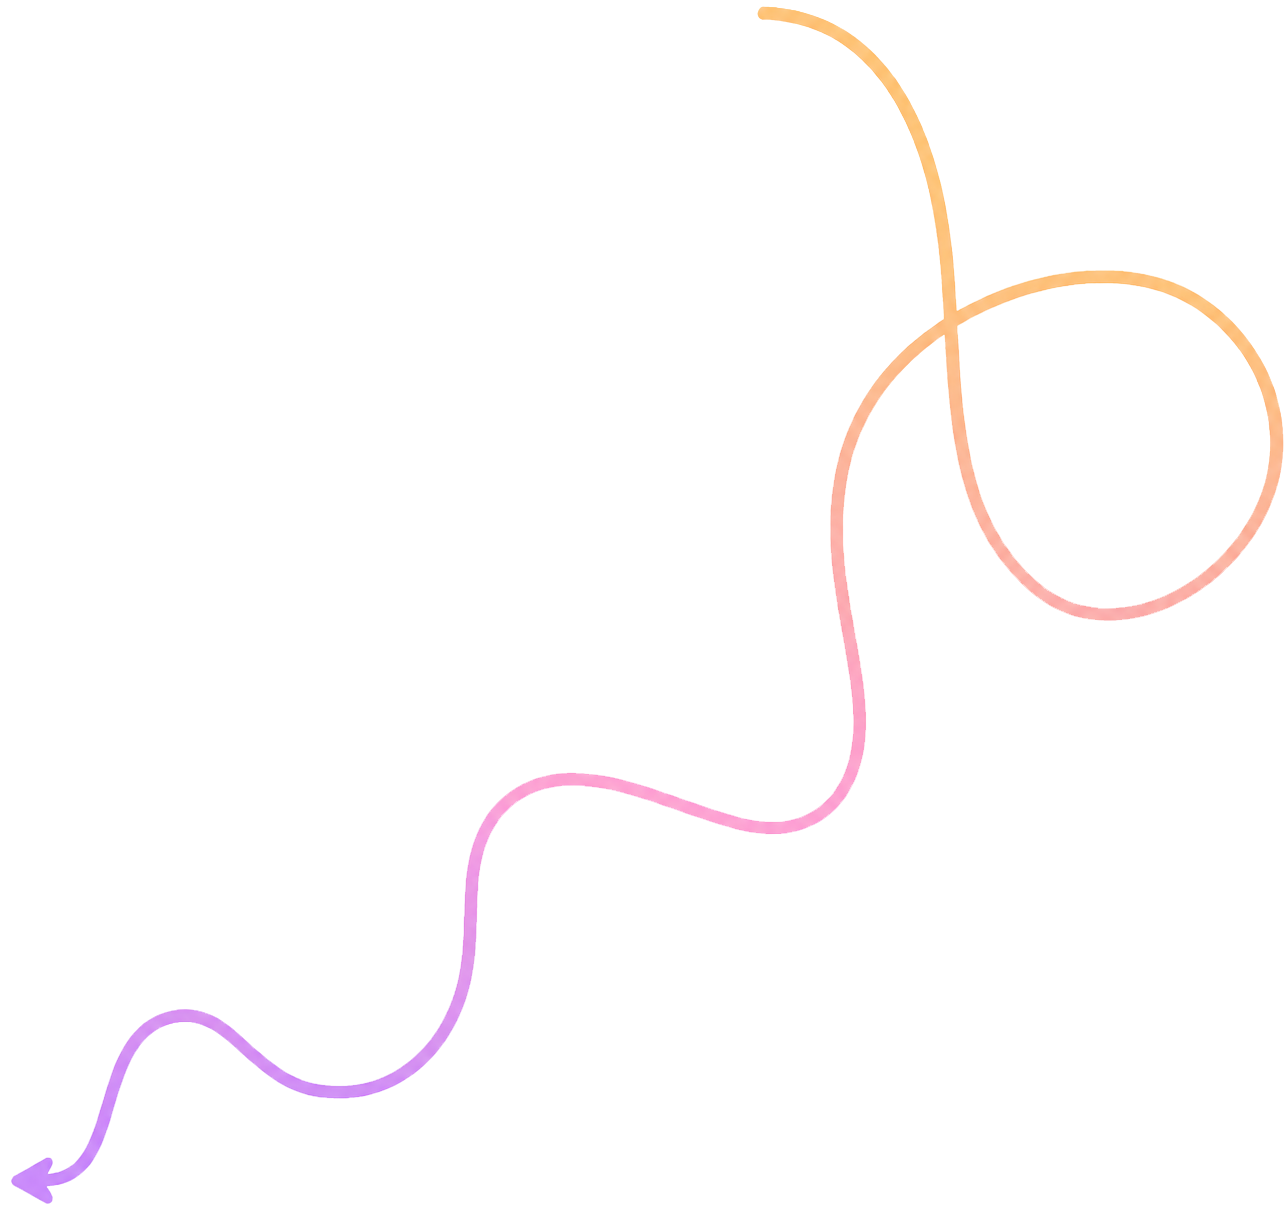
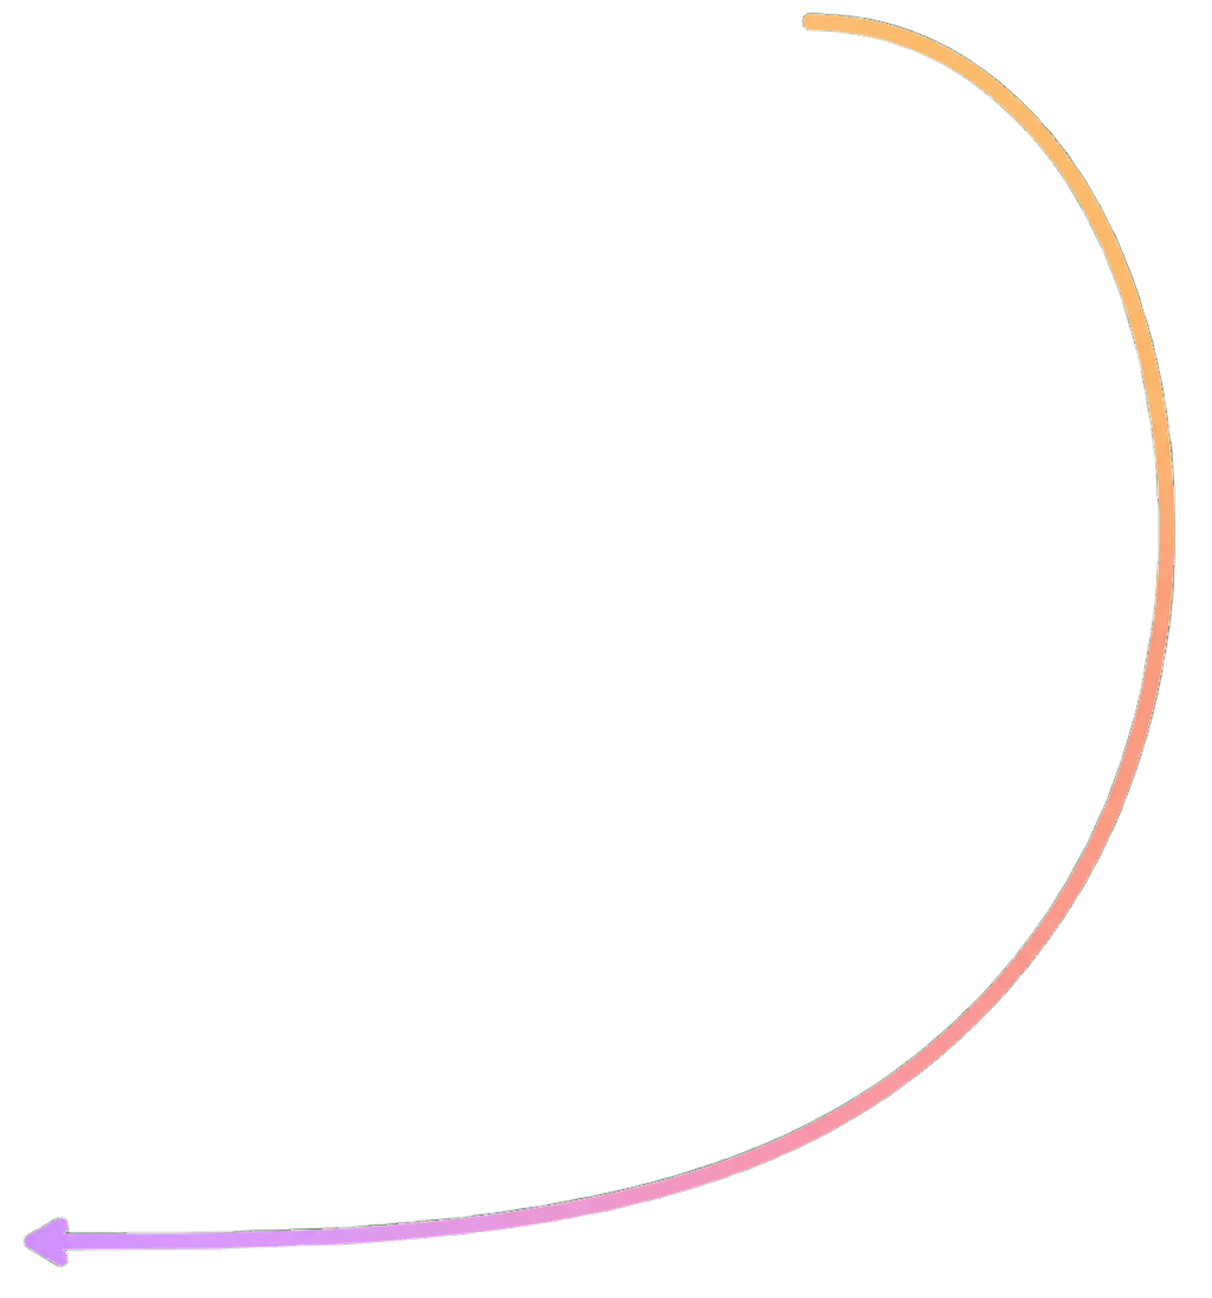
Add files via upload

diff --git a/javascript/experiencias.js b/javascript/experiencias.js
@@ -1,0 +1,60 @@
+let icons = [
+    "IconHTML",
+    "IconCSS",
+    "IconJS",
+    "IconBancoDados",
+    "iconPhp",
+    "iconCotemig",
+    "iconLogicaProgramacao",
+    "iconCSharp",
+    "iconMobile"
+]
+
+
+function randomIndex() {
+    
+    return Math.floor(Math.random() * icons.length);
+
+}
+
+function randomArray(){
+
+    for(let i = 0 ; i < icons.length; i++){
+
+        let index01 = randomIndex();
+        let index02 = randomIndex();
+        let icons01 = icons[index01];
+        let icons02 = icons[index02];
+        icons[index01] = icons02
+        icons[index02] = icons01
+
+    }
+
+    icons.push("final")
+
+    randomPulsandoAnimation()
+
+}
+
+function randomPulsandoAnimation() {
+    
+    for(let i = 0; i < icons.length; i++){
+
+        if(icons[i] == "final"){
+
+            randomArray()
+
+        }
+
+        setTimeout(
+    
+        document.getElementById(icons[i]).style.animation = "pulsando 2.5s ease-in-out infinite"
+        
+        , 100)
+
+    }
+
+}
+
+
+randomArray()

diff --git a/index.html b/index.html
@@ -324,7 +324,7 @@
 
             <img id="flecha01-01" class="flechas" src="imgs/flechas/Flecha01-01.webp">
 
-            <img id="IconEstrelaMinecraft01" class="icons" src="imgs/experiencias/icons/Estrelas.webp">
+            <img id="iconEstrelaMinecraft01" class="icons" src="imgs/experiencias/icons/Estrelas.webp">
             <figure class="figureMolduraImg">
                 <img id="imgExperiencias01-01" class="imgExperiencias" src="imgs/experiencias/SeverFull.webp" alt="Teste">
                 <h1 class="tituloImg">Server +200 Jogadores</h1>
@@ -333,21 +333,21 @@
                 <img id="imgExperiencias01-02" class="imgExperiencias" src="imgs/experiencias/MelhorServidor.webp" alt="Teste">
                 <h1 class="tituloImg">Feedback</h1>
             </figure>
-            <img id="IconEstrelaMinecraft02" class="icons" src="imgs/experiencias/icons/Estrelas.webp">
+            <img id="iconEstrelaMinecraft02" class="icons" src="imgs/experiencias/icons/Estrelas.webp">
             
         </div>
 
         <div id="divExperiencias02" class="divExperiencias">
 
-            <img id="IconHTML" class="icons" src="/imgs/experiencias/icons/HTML.webp">
-            <img id="IconCSS" class="icons" src="/imgs/experiencias/icons/CSS.webp">
-            <img id="IconJS" class="icons" src="/imgs/experiencias/icons/JavaScript.webp">
-            <img id="IconBancoDados" class="icons" src="/imgs/experiencias/icons/BancoDados.webp">
-            <img id="IconPhp" class="icons" src="/imgs/experiencias/icons/Php.webp">
-            <img id="IconCotemig" class="icons" src="/imgs/experiencias/icons/Cotemig.webp">
-            <img id="IconLogicaProgramacao" class="icons" src="/imgs/experiencias/icons/LogicaProgramacao.webp">
-            <img id="IconCSharp" class="icons" src="/imgs/experiencias/icons/CSharp.webp">
-            <img id="IconMobile" class="icons" src="/imgs/experiencias/icons/Mobile.webp">
+            <img id="iconHTML" class="icons" src="/imgs/experiencias/icons/HTML.webp">
+            <img id="iconCSS" class="icons" src="/imgs/experiencias/icons/CSS.webp">
+            <img id="iconJS" class="icons" src="/imgs/experiencias/icons/JavaScript.webp">
+            <img id="iconBancoDados" class="icons" src="/imgs/experiencias/icons/BancoDados.webp">
+            <img id="iconPhp" class="icons" src="/imgs/experiencias/icons/Php.webp">
+            <img id="iconCotemig" class="icons" src="/imgs/experiencias/icons/Cotemig.webp">
+            <img id="iconLogicaProgramacao" class="icons" src="/imgs/experiencias/icons/LogicaProgramacao.webp">
+            <img id="iconCSharp" class="icons" src="/imgs/experiencias/icons/CSharp.webp">
+            <img id="iconMobile" class="icons" src="/imgs/experiencias/icons/Mobile.webp">
 
             <div class="divFiguras">
                 <figure id="figureMolduraImg01" class="figureMolduraImg">
@@ -461,13 +461,13 @@
             </div>
 
 
-            <img id="IconIdeiaPerola" class="icons" src="imgs/experiencias/icons/Ideia.webp">
-            <img id="IconMvpPerola" class="icons" src="imgs/experiencias/icons/Mvp.webp">
-            <img id="IconCheckPerola" class="icons" src="imgs/experiencias/icons/Check.webp">
-            <img id="IconProgramacaoPerola" class="icons" src="imgs/experiencias/icons/Programacao.webp">
-            <img id="IconEquipePerola" class="icons" src="imgs/experiencias/icons/Equipe.webp">
-            <img id="IconJavaPerola" class="icons" src="imgs/experiencias/icons/Java.webp">
-            <img id="IconCoracaoPerola" class="icons" src="imgs/experiencias/icons/Coracao.webp">
+            <img id="iconIdeiaPerola" class="icons" src="imgs/experiencias/icons/Ideia.webp">
+            <img id="iconMvpPerola" class="icons" src="imgs/experiencias/icons/Mvp.webp">
+            <img id="iconCheckPerola" class="icons" src="imgs/experiencias/icons/Check.webp">
+            <img id="iconProgramacaoPerola" class="icons" src="imgs/experiencias/icons/Programacao.webp">
+            <img id="iconEquipePerola" class="icons" src="imgs/experiencias/icons/Equipe.webp">
+            <img id="iconJavaPerola" class="icons" src="imgs/experiencias/icons/Java.webp">
+            <img id="iconCoracaoPerola" class="icons" src="imgs/experiencias/icons/Coracao.webp">
 
             <img id="flecha04-01" class="flechas" src="imgs/flechas/Flecha04-01.webp">
             <img id="flecha04-02" class="flechas" src="imgs/flechas/Flecha04-02.webp"> 
@@ -527,9 +527,9 @@
                 </p>
             </div>
 
-            <h1 id="IconNomeMargaridaMeuAmigoPerro" class="icons">Margaria</h1>
+            <h1 id="iconNomeMargaridaMeuAmigoPerro" class="icons">Margaria</h1>
             <img id="flecha06-01" class="flechas" src="imgs/flechas/Flecha06-01.webp">
-            <img id="IconMargaridaMeuAmigoPerro" class="icons" src="/imgs/experiencias/icons/MargaridaMeuAmigoPerro.webp">
+            <img id="iconMargaridaMeuAmigoPerro" class="icons" src="/imgs/experiencias/icons/MargaridaMeuAmigoPerro.webp">
             <img id="flecha06-02" class="flechas" src="imgs/flechas/Flecha06-02.webp">
             <h1 id="IconEuMeuAmigoPerro" class="icons">Esse sou eu</h1>
 
@@ -560,5 +560,6 @@
 
 <script src="javascript/intersectionObserver.js"></script>
 <script src="javascript/skills.js"></script>
+<script src="javascript/experiencias.js"></script>
 </body>
 </html>